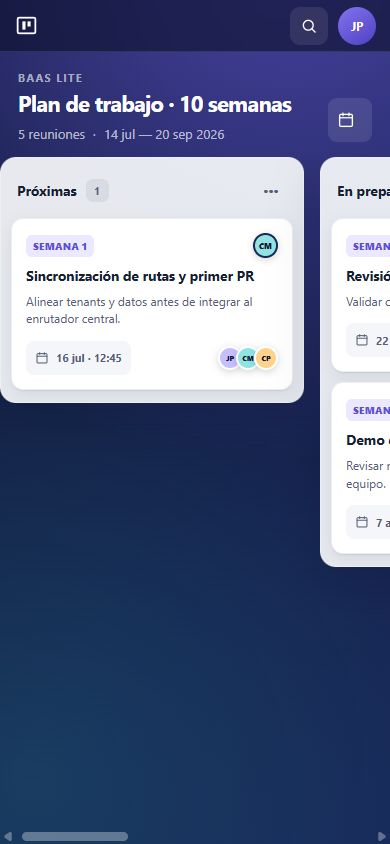
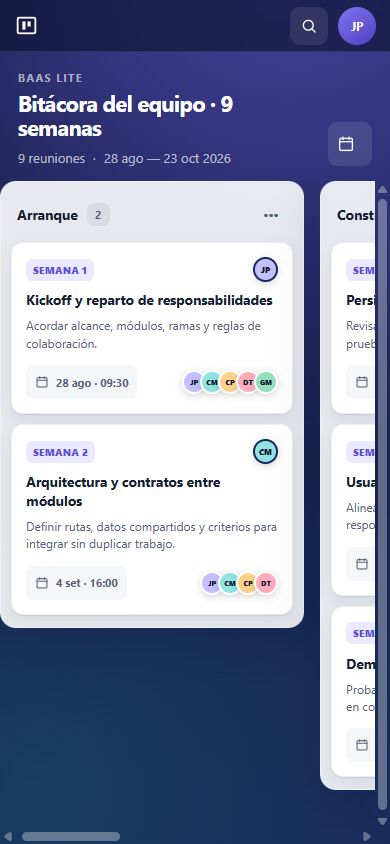
feat: reconstruye cronologia de nueve semanas

diff --git a/tests/test_app.py b/tests/test_app.py
@@ -55,6 +55,18 @@ class BoardStoreTests(unittest.TestCase):
             self.store.reschedule("missing", "2026-07-18", "10:00")
 
 
+class ProjectTimelineTests(unittest.TestCase):
+    def test_seed_data_covers_nine_weekly_meetings_through_october_23(self):
+        board_path = Path(__file__).parents[1] / "data" / "board.json"
+        board = json.loads(board_path.read_text(encoding="utf-8"))
+        meeting_dates = sorted(card["date"] for card in board["cards"])
+
+        self.assertEqual(len(meeting_dates), 9)
+        self.assertEqual(meeting_dates[0], "2026-08-28")
+        self.assertEqual(meeting_dates[-1], "2026-10-23")
+        self.assertEqual(len(board["members"]), 5)
+
+
 if __name__ == "__main__":
     unittest.main()
 

diff --git a/README.md b/README.md
@@ -20,8 +20,8 @@ python -m unittest discover -s tests -v
 
 ## Alcance del MVP
 
-- Tablero con cuatro estados y los cinco integrantes.
-- Reuniones iniciales basadas en el cronograma del proyecto.
+- Tablero con cuatro fases y los cinco integrantes.
+- Nueve reuniones semanales entre el 28 de agosto y el 23 de octubre de 2026.
 - Edición validada de fecha y hora.
 - Persistencia local atómica en `data/board.json`.
 - Diseño responsivo y accesible con identidad propia.

diff --git a/DESIGN.md b/DESIGN.md
@@ -60,7 +60,7 @@
 
 ## 4. Composición
 
-- Cuatro listas visibles: Próximas, En preparación, Esta semana, Realizadas.
+- Cuatro fases visibles: Arranque, Construcción, Integración y Cierre.
 - Cada lista muestra conteo y tarjetas apiladas.
 - Cada tarjeta contiene etiqueta de semana, título, responsable y un botón-fecha.
 - El bloque de cinco avatares comunica que el tablero pertenece al equipo completo.
